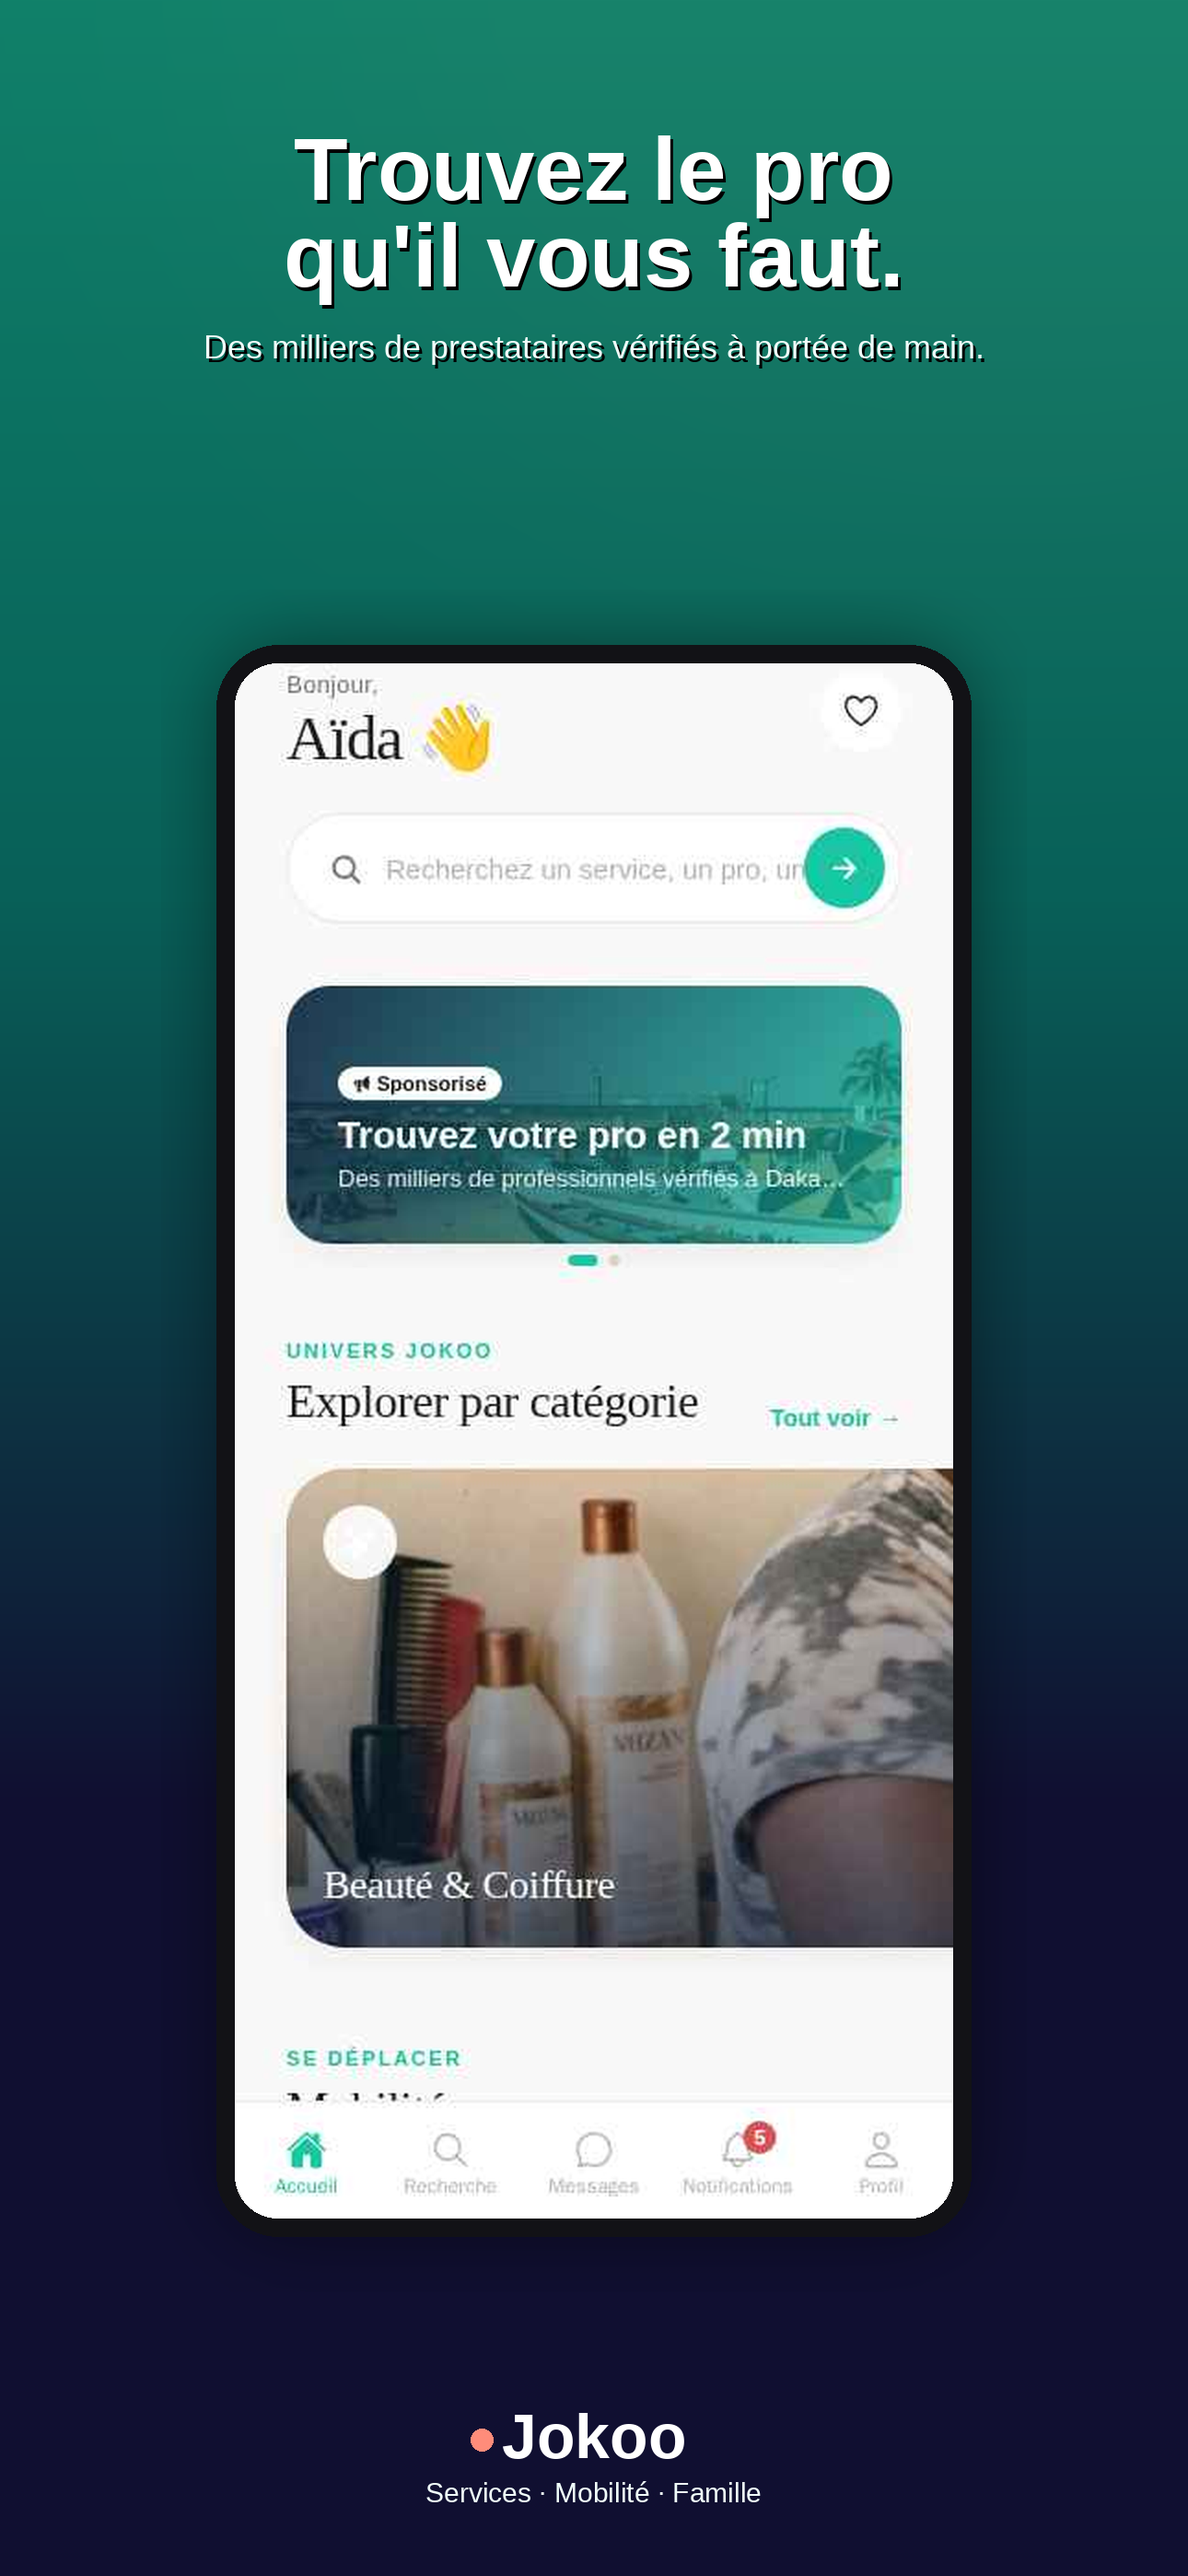
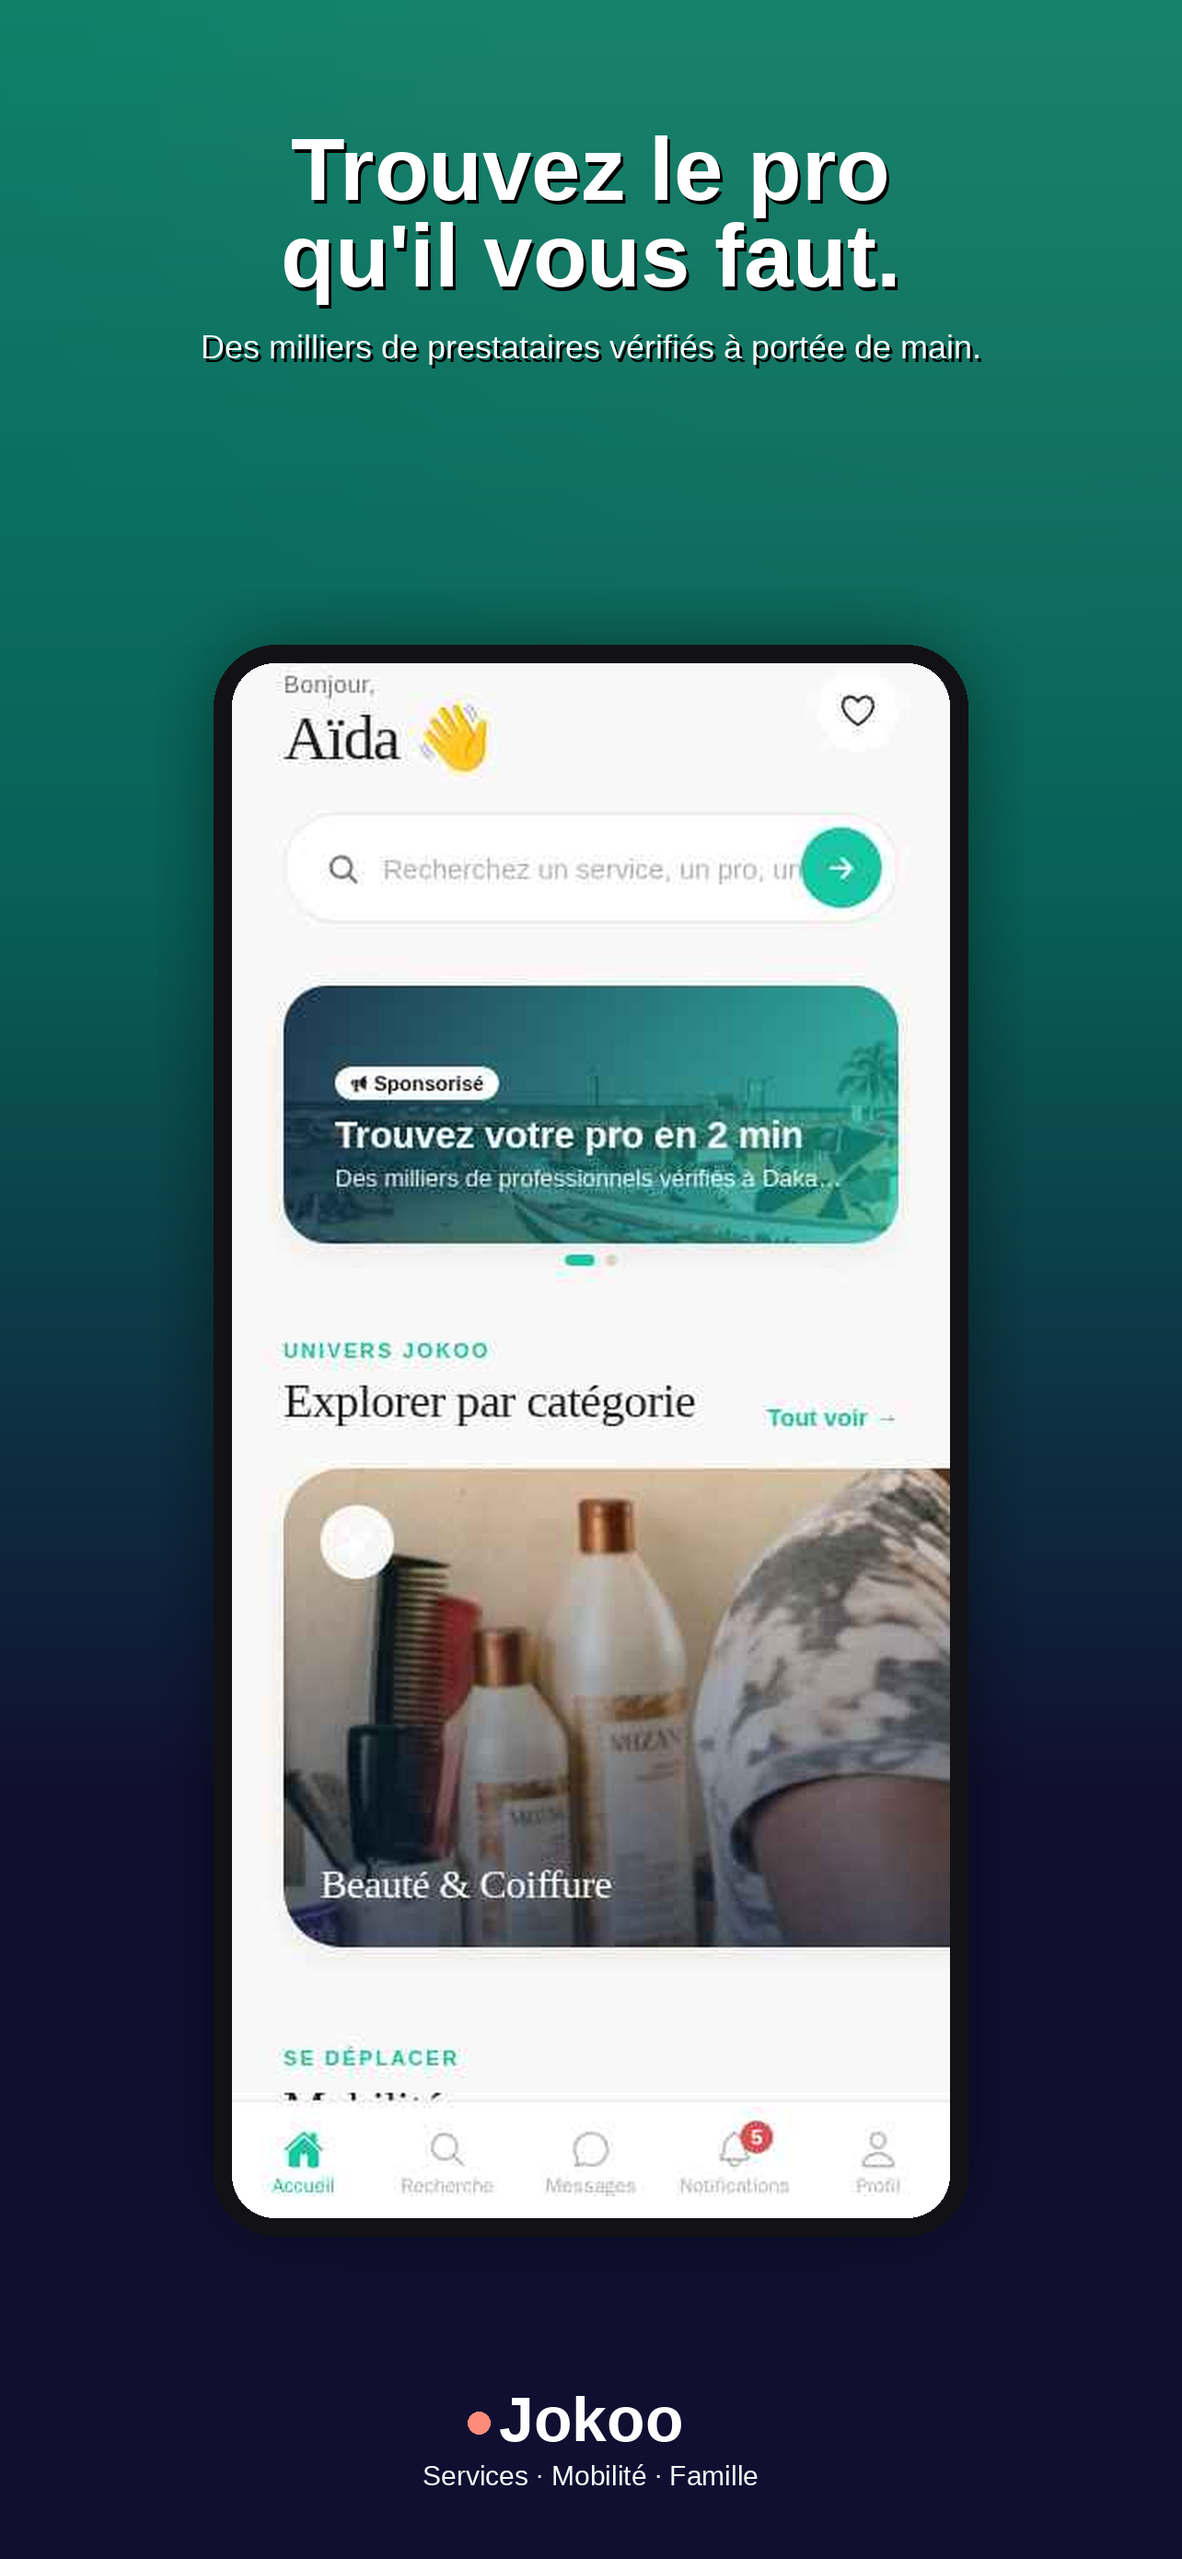
auto-commit for 4dacf9a0-368a-4d45-ba98-422cf4b3993f

diff --git a/store-assets/compose_screenshots.py b/store-assets/compose_screenshots.py
@@ -26,7 +26,9 @@ from typing import Optional
 from PIL import Image, ImageDraw, ImageFilter, ImageFont
 
 # ---- Design constants -------------------------------------------------------
-CANVAS_W, CANVAS_H = 1290, 2796  # iPhone 6.9" App Store
+# App Store Connect accepts these iPhone 6.5" sizes (2778x1284 or 1284x2778).
+# We generate at 1284x2778 (portrait), the current standard for iPhone 12/13/14 Pro Max.
+CANVAS_W, CANVAS_H = 1284, 2778  # iPhone 6.5" App Store required
 BG_TOP = (24, 198, 163)          # #18C6A3 Jokoo turquoise
 BG_MID = (13, 148, 136)          # #0D9488 deep teal
 BG_BOTTOM = (26, 24, 76)         # #1A184C indigo night
